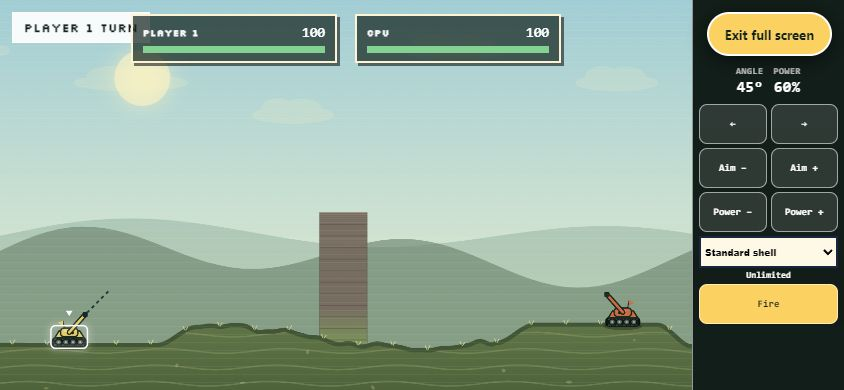
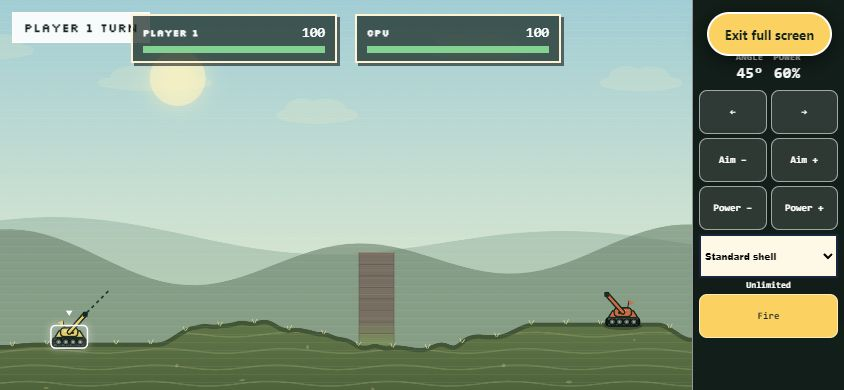
Address Battle Tanks review feedback

diff --git a/battle-tanks/styles.css b/battle-tanks/styles.css
@@ -1,5 +1,5 @@
 @import url('../styles/game.css');
-:root{--tank-focus:#087866}.game-layout{align-items:start}body.game-battle-tanks.modern-game .app-shell{width:min(1360px,calc(100% - 32px))}body.game-battle-tanks.modern-game .game-layout{grid-template-columns:minmax(0,1fr) minmax(280px,320px);gap:clamp(18px,2.5vw,38px)}.arena-wrap{position:relative;overflow:hidden;width:100%;min-width:0;aspect-ratio:16/9;border-radius:10px;background:#14251f;box-shadow:0 16px 50px rgba(22,38,33,.16)}:root[data-theme="dark"]{--tank-focus:#ffd36a}.arena-wrap canvas{display:block;width:100%;height:auto;aspect-ratio:16/9;image-rendering:auto;touch-action:none}.arena-wrap:fullscreen canvas,.arena-wrap.is-fullscreen canvas{width:min(100%,177.78vh);width:min(100%,177.78dvh);max-width:100%;max-height:100%;height:auto;object-fit:contain}.active-flag{position:absolute;top:12px;left:12px;padding:7px 11px;border:1px solid #fff;border-radius:999px;color:#13241e;background:rgba(255,255,255,.92);font-size:12px;font-weight:800;letter-spacing:.04em;text-transform:uppercase;pointer-events:none}.arena-wrap[data-active="1"] .active-flag{right:12px;left:auto}.score small{display:block;color:var(--muted);font-size:10px;font-weight:700;text-transform:uppercase}.readouts{display:grid;grid-template-columns:repeat(3,1fr);gap:8px}.readouts div{display:grid;gap:4px;padding:11px;border:1px solid var(--line);border-radius:8px;background:var(--card)}.readouts span,.control-group>span{color:var(--muted);font-size:10px;font-weight:800;letter-spacing:.06em;text-transform:uppercase}.readouts strong{font-size:15px}.control-pad{display:grid;gap:9px}.control-group{display:grid;grid-template-columns:1fr 48px 48px;align-items:center;gap:8px}.control-group button{min-height:44px;border:1px solid var(--line);border-radius:7px;color:var(--ink);background:var(--card);font-size:21px;font-weight:700;touch-action:manipulation;cursor:pointer}.control-group button:hover:not(:disabled){border-color:var(--ink)}.control-group button:disabled,.fire-button:disabled{cursor:not-allowed;opacity:.45}.fire-button{font-size:16px}.controls button:focus-visible{outline:3px solid var(--tank-focus);outline-offset:3px}@media(max-width:850px){body.game-battle-tanks.modern-game .game-layout{grid-template-columns:1fr}.arena-wrap{max-width:760px;margin-inline:auto}.readouts{grid-template-columns:repeat(3,minmax(0,1fr))}}@media(max-width:480px){.active-flag{top:7px;left:7px;padding:5px 8px;font-size:9px}.arena-wrap[data-active="1"] .active-flag{right:7px}.readouts{grid-template-columns:1fr}.readouts div{grid-template-columns:1fr auto}.control-group{grid-template-columns:1fr 54px 54px}.instructions{font-size:12px}}@media(prefers-reduced-motion:reduce){*,*::before,*::after{scroll-behavior:auto!important;transition-duration:.01ms!important;animation-duration:.01ms!important;animation-iteration-count:1!important}}
+:root{--tank-focus:#087866}.game-layout{align-items:start}.game-battle-tanks .app-shell{width:min(1360px,calc(100% - 32px))}.game-battle-tanks .game-layout{grid-template-columns:minmax(0,1fr) minmax(280px,320px);gap:clamp(18px,2.5vw,38px)}.arena-wrap{position:relative;overflow:hidden;width:100%;min-width:0;aspect-ratio:16/9;border-radius:10px;background:#14251f;box-shadow:0 16px 50px rgba(22,38,33,.16)}:root[data-theme="dark"]{--tank-focus:#ffd36a}.arena-wrap canvas{display:block;width:100%;height:auto;aspect-ratio:16/9;image-rendering:auto;touch-action:none}.arena-wrap:fullscreen canvas,.arena-wrap.is-fullscreen canvas{width:min(100%,177.78vh);width:min(100%,177.78dvh);max-width:100%;max-height:100%;height:auto;object-fit:contain}.active-flag{position:absolute;top:12px;left:12px;padding:7px 11px;border:1px solid #fff;border-radius:999px;color:#13241e;background:rgba(255,255,255,.92);font-size:12px;font-weight:800;letter-spacing:.04em;text-transform:uppercase;pointer-events:none}.arena-wrap[data-active="1"] .active-flag{right:12px;left:auto}.score small{display:block;color:var(--muted);font-size:10px;font-weight:700;text-transform:uppercase}.readouts{display:grid;grid-template-columns:repeat(3,1fr);gap:8px}.readouts div{display:grid;gap:4px;padding:11px;border:1px solid var(--line);border-radius:8px;background:var(--card)}.readouts span,.control-group>span{color:var(--muted);font-size:10px;font-weight:800;letter-spacing:.06em;text-transform:uppercase}.readouts strong{font-size:15px}.control-pad{display:grid;gap:9px}.control-group{display:grid;grid-template-columns:1fr 48px 48px;align-items:center;gap:8px}.control-group button{min-height:44px;border:1px solid var(--line);border-radius:7px;color:var(--ink);background:var(--card);font-size:21px;font-weight:700;touch-action:manipulation;cursor:pointer}.control-group button:hover:not(:disabled){border-color:var(--ink)}.control-group button:disabled,.fire-button:disabled{cursor:not-allowed;opacity:.45}.fire-button{font-size:16px}.controls button:focus-visible{outline:3px solid var(--tank-focus);outline-offset:3px}@media(max-width:850px){.game-battle-tanks .game-layout{grid-template-columns:1fr}.arena-wrap{max-width:760px;margin-inline:auto}.readouts{grid-template-columns:repeat(3,minmax(0,1fr))}}@media(max-width:480px){.active-flag{top:7px;left:7px;padding:5px 8px;font-size:9px}.arena-wrap[data-active="1"] .active-flag{right:7px}.readouts{grid-template-columns:1fr}.readouts div{grid-template-columns:1fr auto}.control-group{grid-template-columns:1fr 54px 54px}.instructions{font-size:12px}}@media(prefers-reduced-motion:reduce){*,*::before,*::after{scroll-behavior:auto!important;transition-duration:.01ms!important;animation-duration:.01ms!important;animation-iteration-count:1!important}}
 .game-battle-tanks .mode-switch button:not([aria-pressed="true"]){color:#fff}
 
 /* In-arena combat HUD */
@@ -18,7 +18,7 @@
 /* Landscape full screen uses a side command deck, leaving the 16:9 arena nearly full-height. */
 @media(max-width:520px){.mobile-controls{display:grid}.controls>.readouts,.controls>.power-up-panel,.controls>.control-pad,.controls>.fire-button{display:none}}
 @media (orientation:landscape){.arena-wrap:fullscreen,.arena-wrap.is-fullscreen{--battle-command-deck:clamp(150px,18vw,280px);box-sizing:border-box;grid-template-columns:minmax(0,1fr) var(--battle-command-deck);grid-template-rows:100%;place-items:center;padding:env(safe-area-inset-top) env(safe-area-inset-right) env(safe-area-inset-bottom) env(safe-area-inset-left)}.arena-wrap:fullscreen canvas,.arena-wrap.is-fullscreen canvas{grid-column:1;grid-row:1;width:min(100%,177.78dvh);height:auto;max-width:100%;max-height:100%;object-fit:contain}.arena-wrap:fullscreen .fullscreen-controls,.arena-wrap.is-fullscreen .fullscreen-controls{position:relative;inset:auto;box-sizing:border-box;display:grid;width:100%;height:100%;grid-column:2;grid-row:1;grid-template-columns:repeat(2,minmax(0,1fr));align-content:center;align-self:stretch;justify-self:stretch;gap:7px;padding:clamp(8px,1.2vw,16px);border-width:0 0 0 1px;border-radius:0;transform:none}.fullscreen-controls>.compact-readouts,.fullscreen-controls>.fullscreen-inventory,.fullscreen-controls>.compact-control-group,.fullscreen-controls>.compact-loadout,.fullscreen-controls>.fullscreen-fire{grid-column:1/-1}.arena-wrap:fullscreen .arena-health,.arena-wrap.is-fullscreen .arena-health,.arena-wrap:fullscreen .impact-callout,.arena-wrap.is-fullscreen .impact-callout{left:calc((100% - var(--battle-command-deck))/2)}.arena-wrap:fullscreen[data-active="1"] .active-flag,.arena-wrap.is-fullscreen[data-active="1"] .active-flag{right:calc(var(--battle-command-deck) + 12px)}.arena-wrap:fullscreen .arena-share,.arena-wrap.is-fullscreen .arena-share{left:calc((100% - var(--battle-command-deck))/2)}}
-@media (orientation:landscape) and (max-height:500px){.arena-wrap:fullscreen,.arena-wrap.is-fullscreen{--battle-command-deck:clamp(148px,18vw,190px)}.arena-wrap:fullscreen .fullscreen-controls,.arena-wrap.is-fullscreen .fullscreen-controls{gap:4px;padding:6px}.fullscreen-controls button{min-height:40px;font-size:10px}.fullscreen-controls label,.fullscreen-controls select,.fullscreen-controls span{min-width:0;font-size:9px}.fullscreen-inventory{gap:4px}.fullscreen-inventory>strong{display:none}.fullscreen-inventory .inventory{overflow:hidden}.fullscreen-inventory .inventory button{min-height:32px;padding:3px 5px;font-size:9px}.fullscreen-controls .inventory:not(:has(button)){display:none}.fullscreen-controls .compact-loadout{grid-template-columns:1fr}.fullscreen-controls .compact-loadout label{display:none}.fullscreen-controls .compact-loadout span{grid-column:1;text-align:center}}
+@media (orientation:landscape) and (max-height:500px){.arena-wrap:fullscreen,.arena-wrap.is-fullscreen{--battle-command-deck:clamp(148px,18vw,190px)}.arena-wrap:fullscreen .fullscreen-controls,.arena-wrap.is-fullscreen .fullscreen-controls{gap:4px;padding:6px}.fullscreen-controls button{min-height:44px;font-size:10px}.fullscreen-controls label,.fullscreen-controls select,.fullscreen-controls span{min-width:0;font-size:9px}.fullscreen-inventory{gap:4px}.fullscreen-inventory>strong{display:none}.fullscreen-inventory .inventory{overflow:hidden}.fullscreen-inventory .inventory button{min-height:44px;padding:3px 5px;font-size:9px}.fullscreen-controls .inventory:not(:has(button)){display:none}.fullscreen-controls .compact-loadout{grid-template-columns:1fr}.fullscreen-controls .compact-loadout label{display:none}.fullscreen-controls .compact-loadout select{min-height:44px}.fullscreen-controls .compact-loadout span{grid-column:1;text-align:center}}
 @media(max-height:420px){.power-card,.result-card{border-radius:14px}.power-card{gap:2px;padding:8px 14px}.power-card-icon{font-size:26px}.power-card h2{font-size:1.25rem}.power-card #power-card-effect{font-size:.75rem}.result-card{gap:3px;padding:8px 14px}.result-burst{font-size:30px}.result-card h2{font-size:1.55rem}.result-card p:not(.result-kicker){font-size:.75rem}.result-actions button{min-height:44px}}
 body:has(.power-card-layer:not([hidden])),body:has(.result-layer:not([hidden])){overflow:hidden;overscroll-behavior:none}
 @media(prefers-reduced-motion:reduce){.result-layer,.result-card,.result-card::before,.result-card::after{animation:none}}

diff --git a/tests/battle-tanks-page.test.js b/tests/battle-tanks-page.test.js
@@ -84,7 +84,17 @@ test('Battle Tanks keeps mobile and short-landscape controls visible without cov
     assert.match(styles, /grid-template-columns:minmax\(0,1fr\) var\(--battle-command-deck\)/);
     assert.match(styles, /fullscreen-controls[^}]*height:100%[^}]*grid-column:2/);
     assert.match(styles, /max-height:500px[^}]*--battle-command-deck:clamp\(148px,18vw,190px\)/);
+    assert.match(styles, /max-height:500px[\s\S]*\.fullscreen-controls button\{min-height:44px/);
+    assert.match(styles, /fullscreen-inventory \.inventory button\{min-height:44px/);
+    assert.match(styles, /compact-loadout select\{min-height:44px/);
     assert.match(styles, /fullscreen-inventory[^}]*overflow:hidden/);
+});
+
+test('Battle Tanks widens its default arena without overriding experience layout contracts', () => {
+    const styles = read('battle-tanks/styles.css');
+    assert.match(styles, /\.game-battle-tanks \.app-shell\{width:min\(1360px/);
+    assert.match(styles, /\.game-battle-tanks \.game-layout\{grid-template-columns:minmax\(0,1fr\)/);
+    assert.doesNotMatch(styles, /body\.game-battle-tanks\.modern-game/);
 });
 
 test('Battle Tanks exposes usable power-ups in full screen', () => {
